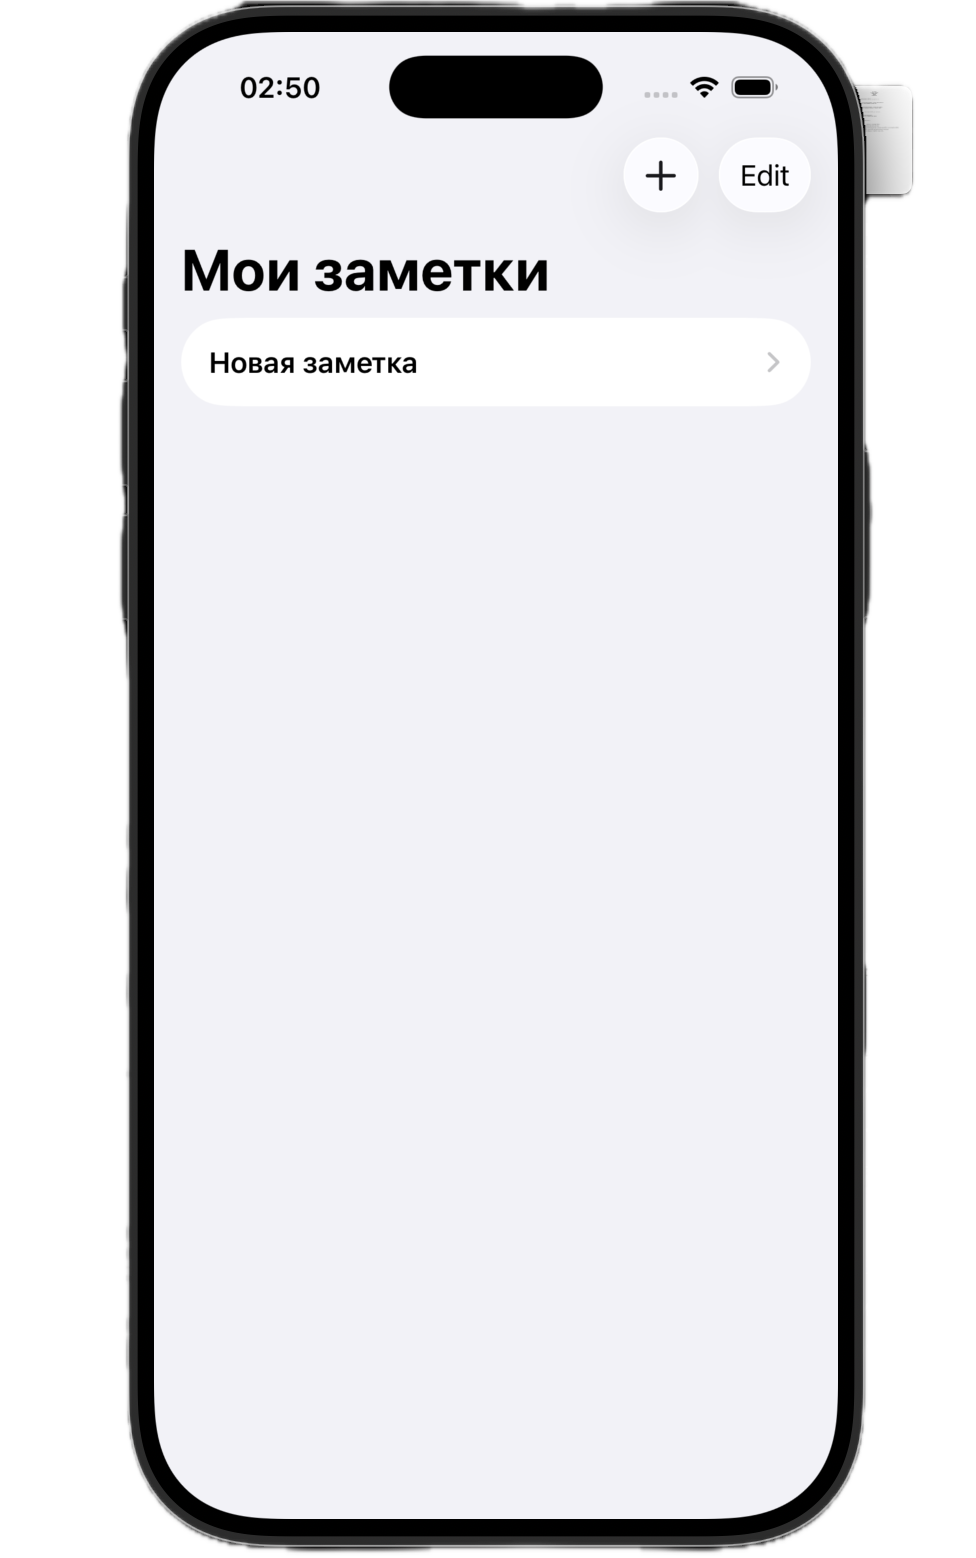
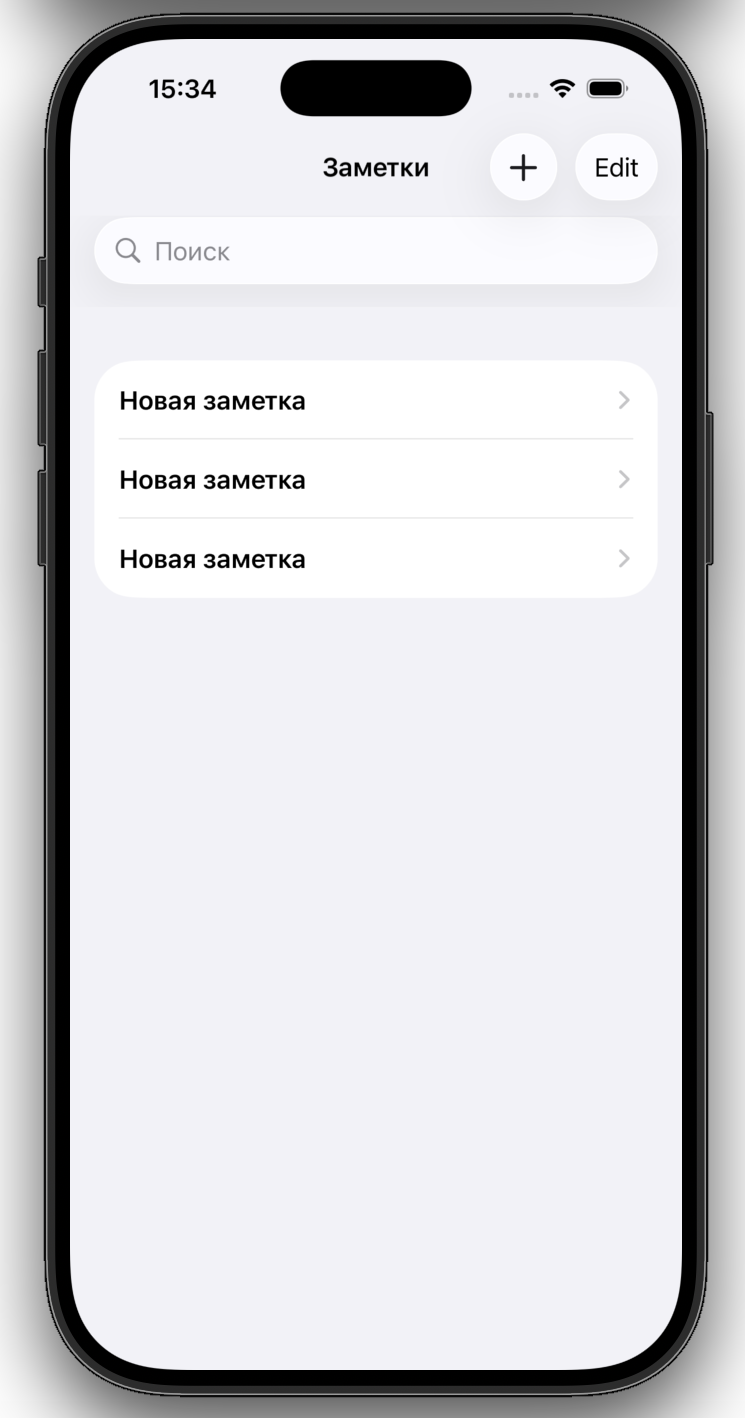
Added search

Changed region(s): [[0.0, 0.0, 1.0, 1.0], [0.2161, 0.2172, 0.4322, 0.2482], [0.6483, 0.0931, 0.7101, 0.1241]]

diff --git a/notes_ios_1.0/ContentView.swift b/notes_ios_1.0/ContentView.swift
@@ -6,21 +6,39 @@ struct ContentView: View {
     @Query(sort: \Note.timestamp, order: .reverse) private var notes: [Note]
 
     @State private var viewModel: NoteListViewModel?
+    @State private var searchText = ""
+
+    private var filteredNotes: [Note] {
+        if searchText.isEmpty {
+            return notes
+        } else {
+            return notes.filter { note in
+                note.title.localizedCaseInsensitiveContains(searchText)
+                || note.content.localizedCaseInsensitiveContains(searchText)
+                || formattedDate(note.timestamp).localizedCaseInsensitiveContains(searchText)
+                || formattedDate(note.updatedAt).localizedCaseInsensitiveContains(searchText)
+            }
+        }
+    }
 
     var body: some View {
-        NavigationSplitView {
-            List {
-                ForEach(notes) { note in
-                    NavigationLink(destination: NoteDetailView(note: note)) {
-                        Text(note.title)
-                            .font(.headline)
-                            .lineLimit(1)
+        NavigationStack {
+            VStack {
+                List {
+                    ForEach(filteredNotes) { note in
+                        NavigationLink(destination: NoteDetailView(note: note)) {
+                            Text(note.title)
+                                .font(.headline)
+                                .lineLimit(1)
+                        }
+                    }
+                    .onDelete { offsets in
+                        viewModel?.deleteNotes(filteredNotes, at: offsets)
                     }
                 }
-                .onDelete { offsets in
-                    viewModel?.deleteNotes(notes, at: offsets)
-                }
             }
+            .navigationTitle("Заметки")
+            .navigationBarTitleDisplayMode(.inline)
             .toolbar {
                 ToolbarItem(placement: .navigationBarTrailing) {
                     EditButton()
@@ -33,13 +51,18 @@ struct ContentView: View {
                     }
                 }
             }
-            .navigationTitle("Мои заметки")
-        } detail: {
-            Text("Select an item")
+            .searchable(text: $searchText, placement: .navigationBarDrawer(displayMode: .always), prompt: "Поиск")
         }
         .onAppear {
             viewModel = NoteListViewModel(modelContext: modelContext)
         }
+    }
+
+    private func formattedDate(_ date: Date) -> String {
+        let formatter = DateFormatter()
+        formatter.dateStyle = .short
+        formatter.timeStyle = .short
+        return formatter.string(from: date)
     }
 }
 

diff --git a/README.md b/README.md
@@ -9,14 +9,17 @@
 ### Заметки добавлены
 <img src="https://github.com/AlekseyRodimkin/Simple_Notes_ios/blob/main/Readme_images/new.png" style="width:30%;">
 
-### Удаляем заметку свайпом
-<img src="https://github.com/AlekseyRodimkin/Simple_Notes_ios/blob/main/Readme_images/swipe.png" style="width:30%;">
-
 ### Редактируем заметку
 <img src="https://github.com/AlekseyRodimkin/Simple_Notes_ios/blob/main/Readme_images/writing.png" style="width:30%;">
 
 ### Заметка изменена
 <img src="https://github.com/AlekseyRodimkin/Simple_Notes_ios/blob/main/Readme_images/changed.png" style="width:30%;">
+
+### Поиск заметок
+<img src="https://github.com/AlekseyRodimkin/Simple_Notes_ios/blob/main/Readme_images/search.png" style="width:30%;">
+
+### Удаляем заметку свайпом
+<img src="https://github.com/AlekseyRodimkin/Simple_Notes_ios/blob/main/Readme_images/swipe.png" style="width:30%;">
 
 ### Удаляем несколько заметок
 <img src="https://github.com/AlekseyRodimkin/Simple_Notes_ios/blob/main/Readme_images/option.png" style="width:30%;">
